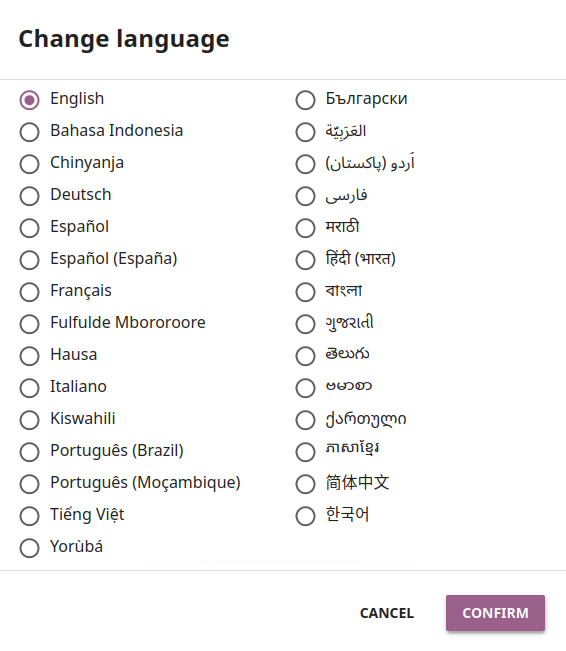
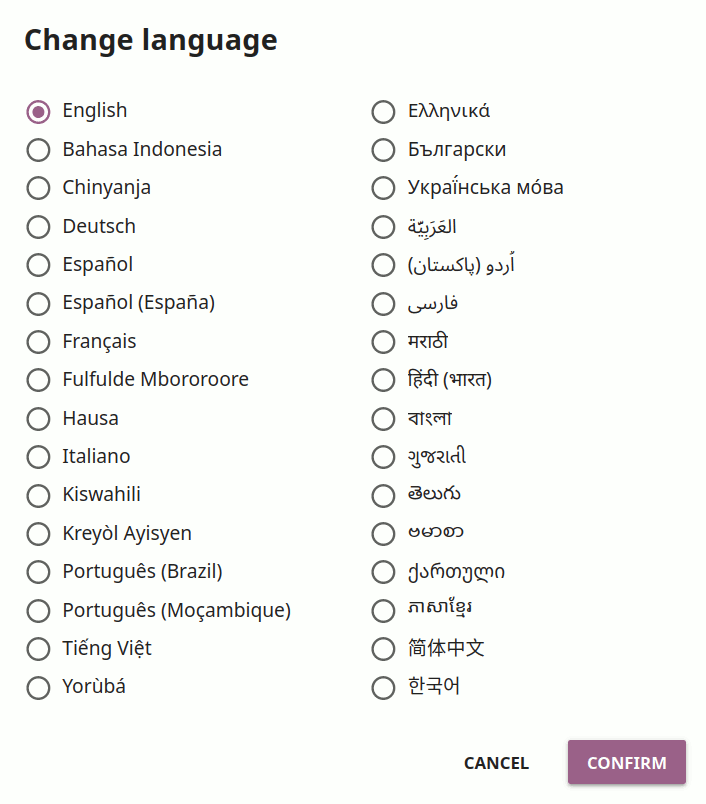
Add Haitian Creole among supported languages

diff --git a/docs/faq.rst b/docs/faq.rst
@@ -66,6 +66,8 @@ Both Kolibri and `Kolibri Studio <https://studio.learningequality.org/>`_ are tr
 +---------------------------+-----------------+-----------------+
 | Greek                     | ✓               |                 |
 +---------------------------+-----------------+-----------------+
+| Haitian Creole            | ✓               |                 |
++---------------------------+-----------------+-----------------+
 | Hausa                     | ✓               |                 |
 +---------------------------+-----------------+-----------------+
 | Hindi (India)             | ✓               |                 |
@@ -91,6 +93,8 @@ Both Kolibri and `Kolibri Studio <https://studio.learningequality.org/>`_ are tr
 | Swahili (Tanzania)        | ✓               |                 |
 +---------------------------+-----------------+-----------------+
 | Telugu                    | ✓               |                 |
++---------------------------+-----------------+-----------------+
+| Ukrainian                 | ✓               |                 |
 +---------------------------+-----------------+-----------------+
 | Urdu (Pakistan)           | ✓               |                 |
 +---------------------------+-----------------+-----------------+

diff --git a/docs/manage/options_ini.rst b/docs/manage/options_ini.rst
@@ -111,6 +111,8 @@ Kolibri currently supports the following locales:
 +---------------------------+-----------------+
 | Gujarati                  | ``gu-in``       | 
 +---------------------------+-----------------+
+| Haitian Creole            | ``ht``          | 
++---------------------------+-----------------+
 | Hausa                     | ``ha``          | 
 +---------------------------+-----------------+
 | Hindi (India)             | ``hi-in``       | 
@@ -136,6 +138,8 @@ Kolibri currently supports the following locales:
 | Swahili (Tanzania)        | ``sw-tz``       | 
 +---------------------------+-----------------+
 | Telugu                    | ``te``          | 
++---------------------------+-----------------+
+| Ukrainian                 | ``uk``          | 
 +---------------------------+-----------------+
 | Urdu (Pakistan)           | ``ur-pk``       | 
 +---------------------------+-----------------+

diff --git a/docs/access/change_language.rst b/docs/access/change_language.rst
@@ -13,7 +13,7 @@ To change language in which the **Kolibri** user interface is displayed, follow 
 .. figure:: /img/change-language.png
     :alt: 
 
-    Kolibri flies in 29 languages!
+    Kolibri flies in 32 languages!
 
 .. warning::
   The default language configured in your browser preferences might override the language configured in Kolibri. To ensure that Kolibri displays in the desired language, make sure to configure it as default in the browsers of all the devices that will be used to view Kolibri.
